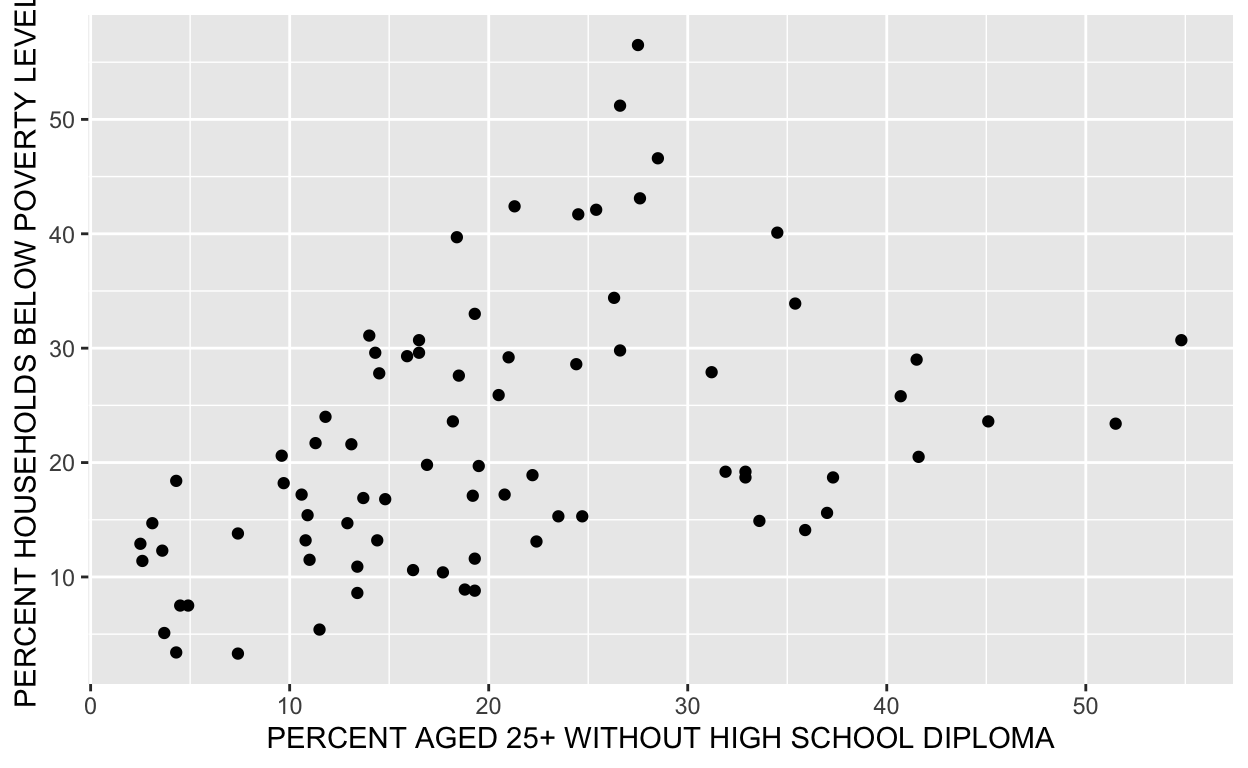
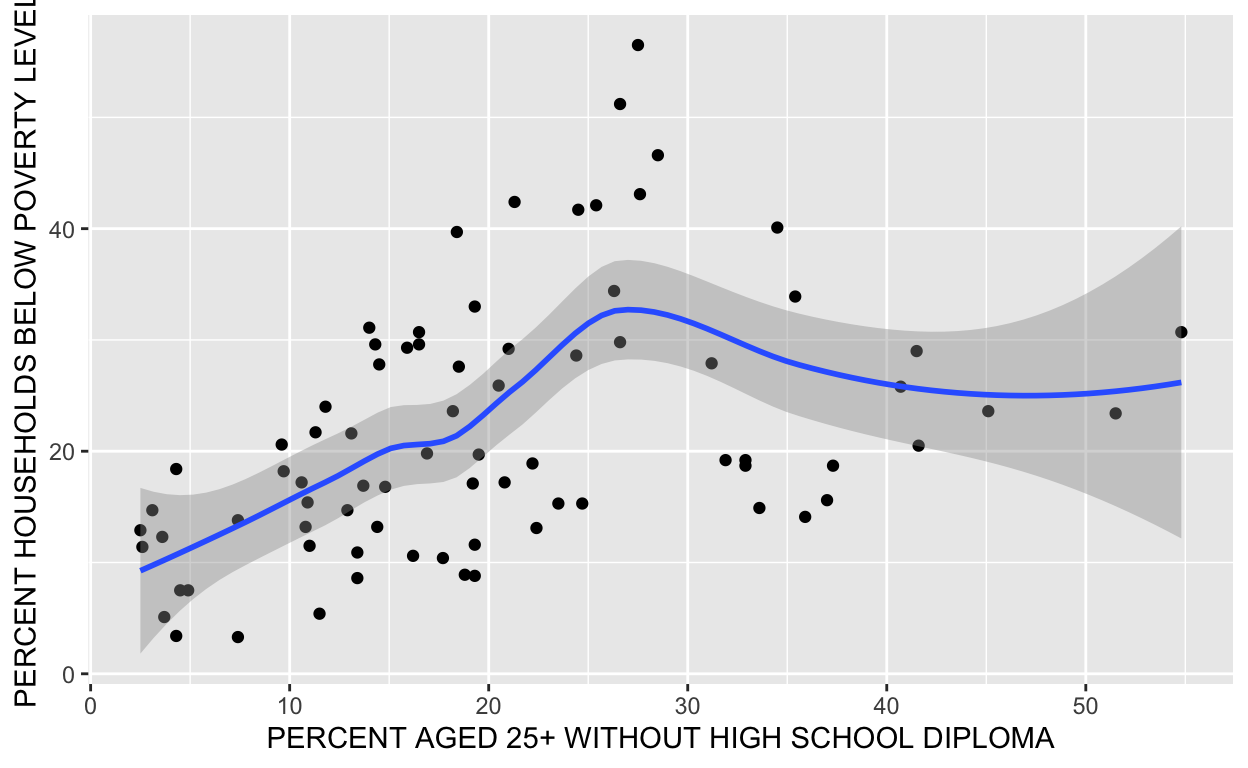
2

diff --git a/index.html b/index.html
@@ -1946,7 +1946,9 @@ What is the impact of the percentage of persons over the age of 25 without a hig
 <span></span>
 <span><span class='va'>plot</span> <span class='op'>&lt;-</span> <span class='va'>relation</span> <span class='op'>|&gt;</span></span>
 <span><span class='fu'><a href='https://ggplot2.tidyverse.org/reference/ggplot.html'>ggplot</a></span><span class='op'>(</span>mapping <span class='op'>=</span> <span class='fu'><a href='https://ggplot2.tidyverse.org/reference/aes.html'>aes</a></span><span class='op'>(</span>x <span class='op'>=</span> <span class='va'>degrees</span>, y <span class='op'>=</span> <span class='va'>poverty</span><span class='op'>)</span><span class='op'>)</span> <span class='op'>+</span></span>
-<span>  <span class='fu'><a href='https://ggplot2.tidyverse.org/reference/geom_point.html'>geom_point</a></span><span class='op'>(</span><span class='fu'><a href='https://ggplot2.tidyverse.org/reference/aes.html'>aes</a></span><span class='op'>(</span><span class='op'>)</span><span class='op'>)</span> <span class='op'>+</span></span>
+<span>  <span class='fu'><a href='https://ggplot2.tidyverse.org/reference/geom_point.html'>geom_point</a></span><span class='op'>(</span><span class='op'>)</span> <span class='op'>+</span></span>
+<span>  <span class='fu'><a href='https://ggplot2.tidyverse.org/reference/geom_smooth.html'>geom_smooth</a></span><span class='op'>(</span><span class='op'>)</span> <span class='op'>+</span></span>
+<span>  <span class='fu'><a href='https://ggplot2.tidyverse.org/reference/scale_alpha.html'>scale_alpha</a></span><span class='op'>(</span><span class='op'>)</span> <span class='op'>+</span></span>
 <span>  <span class='fu'><a href='https://ggplot2.tidyverse.org/reference/labs.html'>labs</a></span><span class='op'>(</span></span>
 <span>  x <span class='op'>=</span> <span class='st'>"PERCENT AGED 25+ WITHOUT HIGH SCHOOL DIPLOMA"</span> ,</span>
 <span>  y <span class='op'>=</span> <span class='st'>"PERCENT HOUSEHOLDS BELOW POVERTY LEVEL"</span></span>
@@ -1956,6 +1958,7 @@ What is the impact of the percentage of persons over the age of 25 without a hig
 </div>
 <p><img src="index_files/figure-html5/unnamed-chunk-1-1.png" width="624" /></p>
 </div>
+<p>There is a positive relationship between the percentage of persons over the age of 25 without a high school diploma and the the percent of households living below the federal poverty level.</p>
 <div class="sourceCode" id="cb1"><pre class="sourceCode r distill-force-highlighting-css"><code class="sourceCode r"></code></pre></div>
 <!--radix_placeholder_article_footer-->
 <!--/radix_placeholder_article_footer-->
